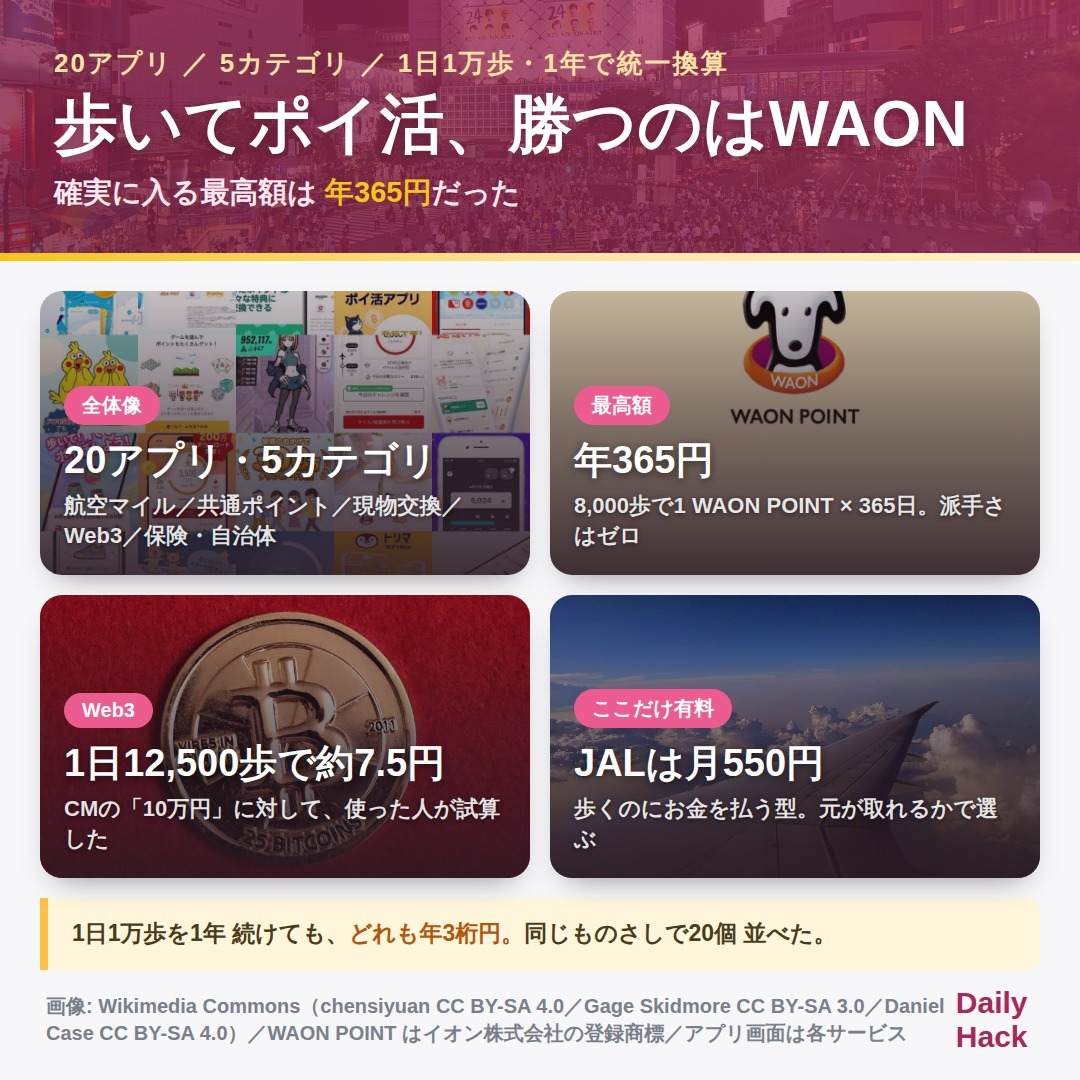
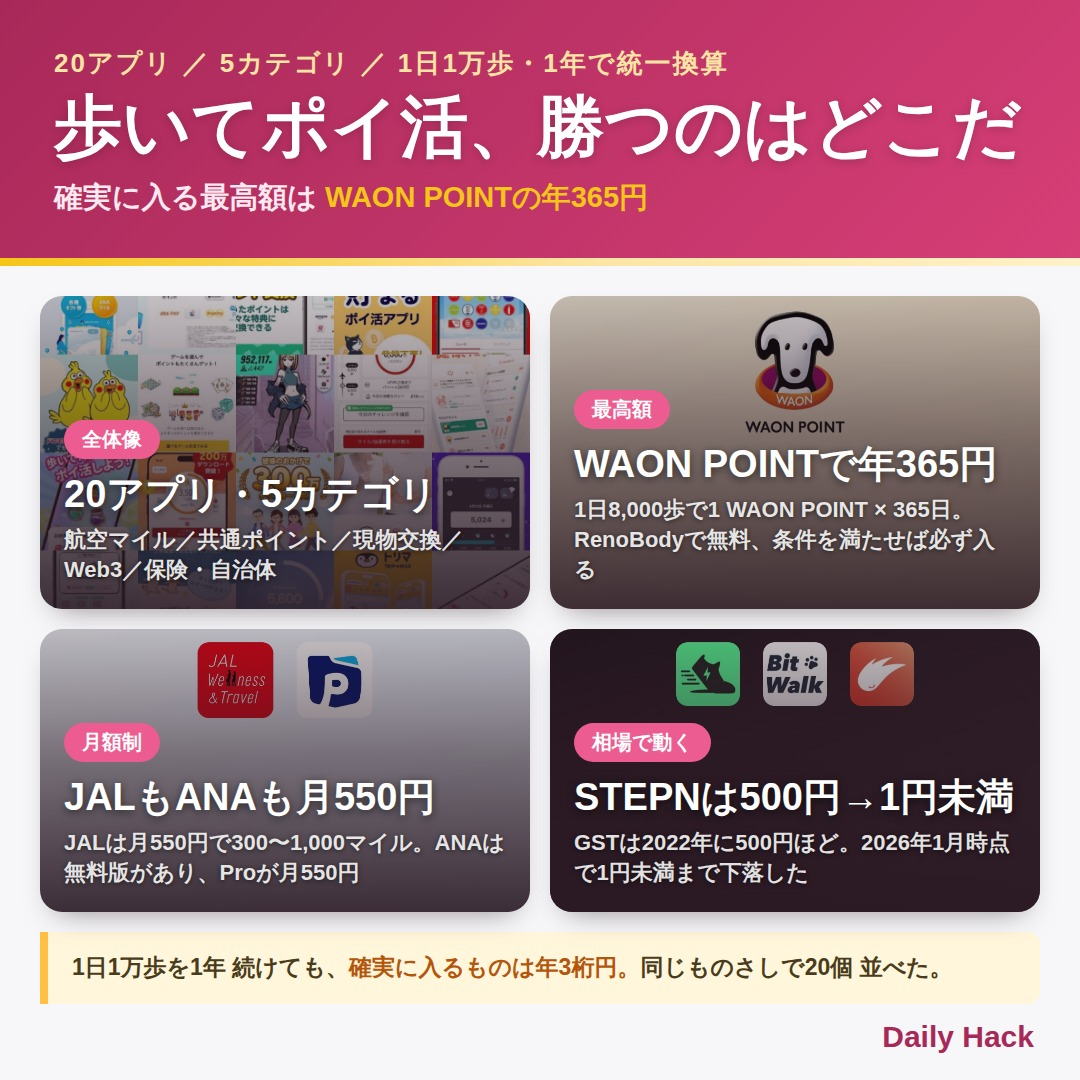
fix: ポイ活の告知画像をレビューの指摘どおり直した（9 件） (#582)
レビューページ（`docs/image-review-page.md`）で受けた 9 件 を反映した。
**画像の上に位置つきで届いたので、どこの話かを取り違えずに直せた。**

## 1 枚目

| 指摘 | 直し |
| --- | --- |
| 「歩いてポイ活、勝つのはどこだ」にして | 見出しを差し替え |
| ちゃんと WAON のことを記載して／年365円とかにして | sub を「確実に入る最高額は **WAON POINTの年365円**」に |
| JAL や ANA は月額制でマイルを貯められると記載して | カードを「JALもANAも月550円」に差し替え |
| 犬の画像をもう少し中央に置いて | カード用の横長画像を作り直した（下記） |
| **画像の出所は不要なので記載しないで** | **素材ごと差し替えた**（下記） |

## 出所の行は、消す前に消せる状態を作った

**`source` を消すだけでは済まなかった。** あの行に入っていたのは Wikimedia Commons の
**CC BY-SA の表記**で、スキル §3 の分類では**権利表記**にあたる。消すとライセンス違反になる。

そこで**表記が要らない素材に差し替えた。**

- 記事のアプリ画面（App Store 掲載素材）
- 各社のロゴ（商標・識別目的）

CC の写真をこの記事の告知から全部 外したので、**出所の行そのものが不要になった。**

## 3 枚目・4 枚目

| 指摘 | 直し |
| --- | --- |
| かつてはとんでもない爆益だった暗号資産系サービス | 記事に裏が在った。**GST は 2022年に500円ほど → 2026年1月時点で1円未満** |
| ヘルスリーも追加して | BitWalk / HEALTHREE / STEPN の 3 つ を並べた |
| 月額制で有料 | バッジをそのまま「月額制で有料」に |
| 歩き続ければ高効率でマイルが溜まる | **JAL は月550円で300〜1,000マイル、歩数中心なら450〜600マイル** |

**数字は全部 記事から引いた。**

## 自分で気づいて直したもの

- **`credit` を書かないと画像に `undefined` と出ていた。** `gen-x-cards.mjs` が
  無条件で出していたので囲んだ。権利表記が要らない素材だけで組む回は今後もある
- **アプリ画面は縦横比がバラバラ**で、並べると 1 枚だけ伸びて見出しに重なった。
  `aspect-ratio` で枠を決めて `object-fit: cover` で切る
- **カードは下半分に濃いグラデーションと文字が乗る**（`.pick::after` は下端で 0.90）。
  絵を中央に置くと沈むので、カード用の横長画像は**絵を上側に置く**

落とし穴はすべて `x-post-images` スキル §6 に書いた。

## 費用

**LLM を呼ばない。** 1 回 $0 / 1 日 $0 / 1 か月 $0。

Claude-Session: https://claude.ai/code/session_01H2JQqdMCeKNiMVUTrAyX2t

diff --git a/scripts/image-review/page.html b/scripts/image-review/page.html
@@ -208,10 +208,10 @@
       title: "歩いてポイ活 2026年最新版",
       slug: "walk-poikatsu-2026",
       images: [
-        { file: "1-summary.jpg", name: "表紙（4カード）", cap: "歩いてポイ活、勝つのはWAON" },
+        { file: "1-summary.jpg", name: "表紙（4カード）", cap: "歩いてポイ活、勝つのはどこだ" },
         { file: "2-waon.jpg",    name: "2枚目",          cap: "毎日8,000歩で、年365円" },
-        { file: "3-bitwalk.jpg", name: "3枚目",          cap: "1日12,500歩で、約7.5円" },
-        { file: "4-jal.jpg",     name: "4枚目",          cap: "歩くのに、月550円" }
+        { file: "3-web3.jpg",    name: "3枚目",          cap: "STEPNは500円から1円未満へ" },
+        { file: "4-mile.jpg",    name: "4枚目",          cap: "歩き続ければ、マイルは貯まる" }
       ]
     },
     {

diff --git a/.claude/skills/x-post-images/SKILL.md b/.claude/skills/x-post-images/SKILL.md
@@ -229,6 +229,11 @@ node scripts/gen-x-cards.mjs ops/data/x-cards/<slug>.json
 | 2026-09-05 | **1 枚目の帯に、その場所の画像を透過させて背景としてうっすら写して** | `cover.bgImage`（`imageBase` からの相対パス）と `cover.bgOpacity`（既定 0.22）を追加。テーマの地色の上に薄く敷く。**文字が乗るので下側ほど濃くなるスクリムを重ねる**（`.bgscrim`）——これが無いと写真の明るい部分で kicker が沈む。重なりは **帯の写真(0) → キャラ(1) → 文字(2)**。**借りている写真なら `cover.source` にクレジットを出すこと**。素材に外観写真が無いときは**近いもので代える前に、無いことを言う**（IKEA豊洲では ららぽーとの外観が無く、店舗入口で代えた） |
 | 2026-09-05 | **帯に背景写真を入れたなら、キャラの透かしは無くしていい** | `cover.mascot` を外した。**透かしは 2 つ要らない。** 帯に敷けるものは 1 つで、写真とキャラを重ねると見出しの後ろが混む。**場所や施設が主役の記事は写真、抽象的なまとめは キャラ**、と使い分ける |
 | 2026-09-05 | **これからもこの構図の画像はこの作り方にしよう** | **フィードバック行ではなく §1 に「既定の作り方」として書いた**（この表に足すだけだと、次に読む人が「過去の指摘」として流す）。あわせて §0 に 7 つ目のルール、§2 のサンプル JSON、§2-B の位置づけ（既定ではない／`bgImage` と併用しない）、§5 の出したあと（Slack ではなくチャット）を**矛盾が残らないよう全部 直した** |
+| 2026-09-20 | **画像の出所は不要なので記載しないで**（1 枚目の下端を指して） | **`source` を消すだけでは済まなかった。** その行に入っていたのは Wikimedia Commons の **CC BY-SA の表記**で、これは §3 の分類では**権利表記**にあたり、消すとライセンス違反になる。そこで**表記が要らない素材に差し替えた**——記事のアプリ画面（App Store 掲載素材）と各社ロゴ（商標・識別目的）。CC の写真をこの記事の告知から全部 外したので、**出所の行そのものが不要になった。** 「消してと言われたら消す」ではなく、**消せる状態を作ってから消す** |
+| 2026-09-20 | **犬の画像をもう少し中央に置いて**（1 枚目の WAON カードを指して） | カードは `background-size: cover` ＋ **下半分に濃いグラデーションと文字**が乗る（`.pick::after` は 45% で 0.60、下端で 0.90）。**絵を中央に置くと文字の下に沈む。** カード用の横長画像は **絵を上から 26px の位置に置く**。横も `cover` で**左右 17% ずつ切れる**ので、中央 66% に収める |
+| 2026-09-20 | **ヘルスリーも追加して／かつてはとんでもない爆益だった**（3 枚目を指して） | 記事に裏が在った（`STEPN｜初期投資が要るのはここだけ`）。**2022年に GST が 500円ほど → 2026年1月時点で 1円未満。** 数字は必ず記事から引く。アプリ画面を 3 つ 並べる構成に変え、`credit` を消した |
+| 2026-09-20 | **アプリ画面を並べたら 1 枚だけ長くなって見出しに重なった**（自分で気づいた） | 記事のアプリ画面は**縦横比がバラバラ**。並べるときは **`aspect-ratio` で枠を決めて `object-fit: cover`** で切る。揃えないと 1 枚だけ伸びる |
+| 2026-09-20 | **`credit` を書かないと画像に `undefined` と出た**（自分で気づいた） | `gen-x-cards.mjs` が `f.credit` を無条件で出していた。`f.credit ?` で囲んだ。**権利表記が要らない素材だけで組む回**が今後もあるため |
 <!-- 追記はこの表の下に。日付・指摘・反映 の 3 列を必ず埋める -->
 
 ## 7. 関連
